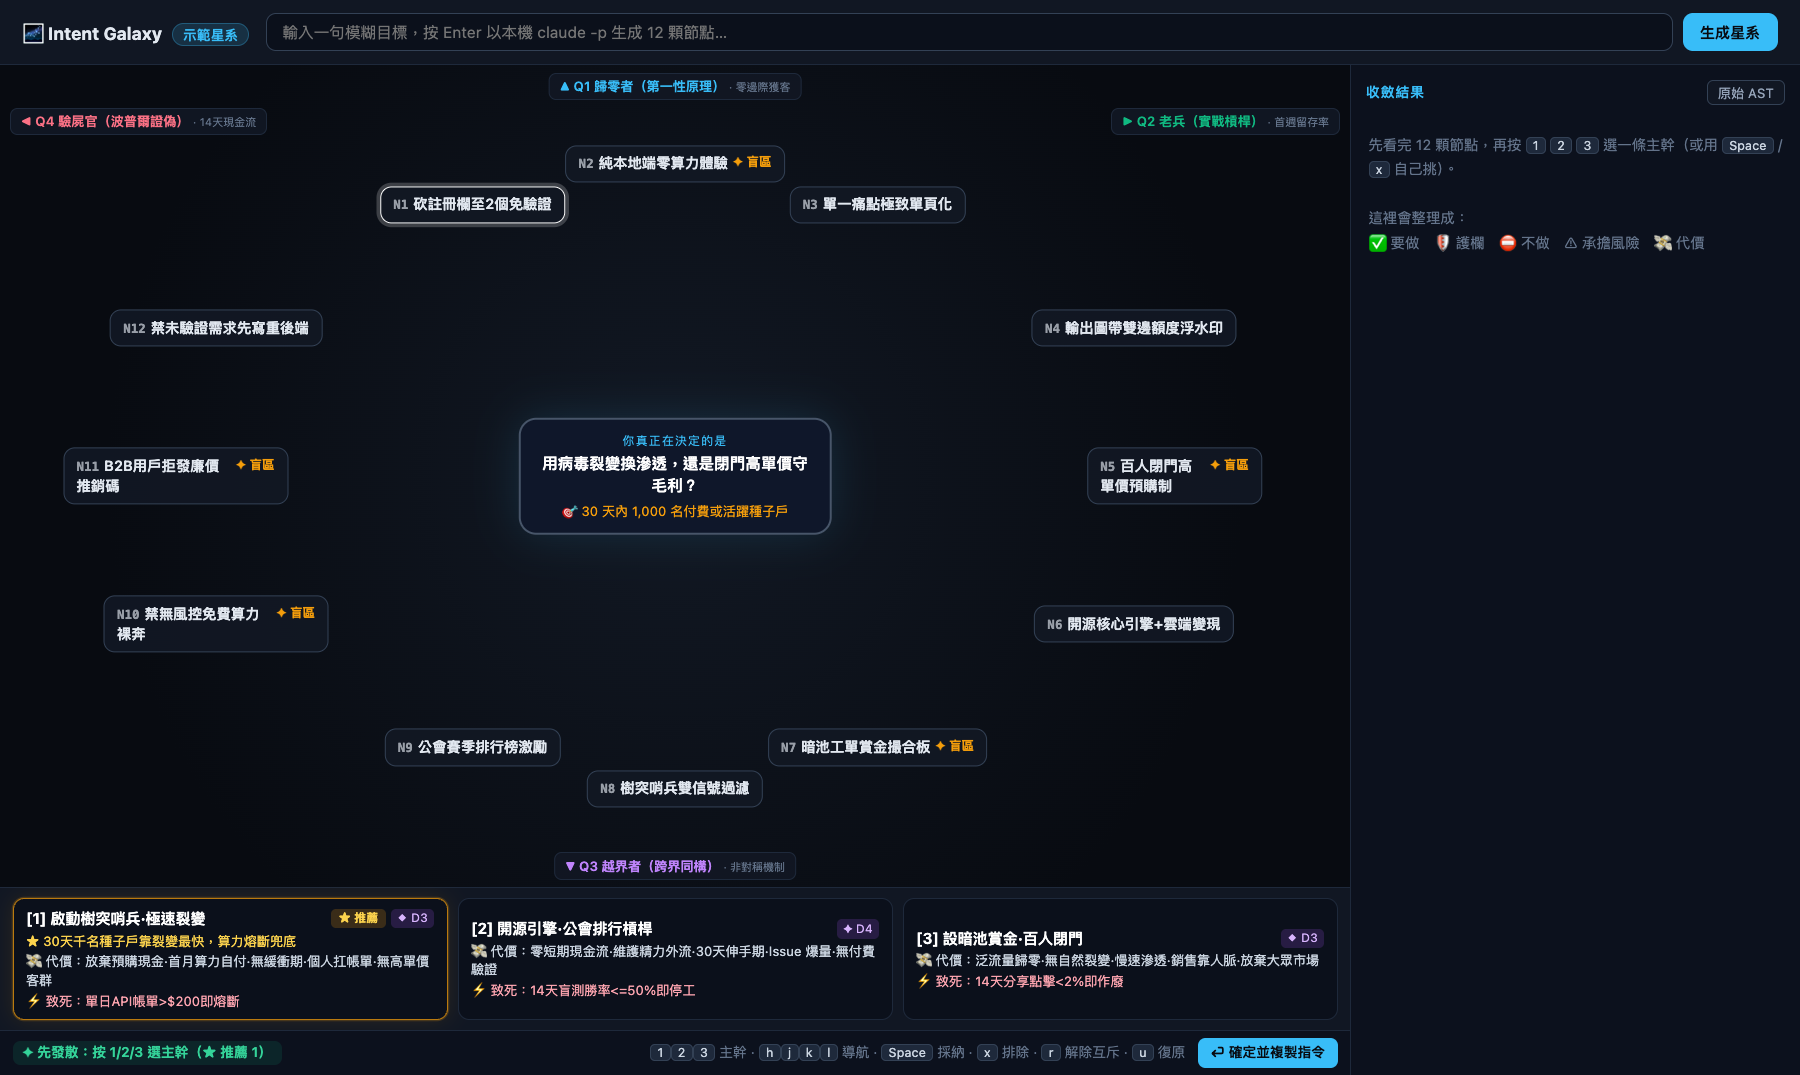
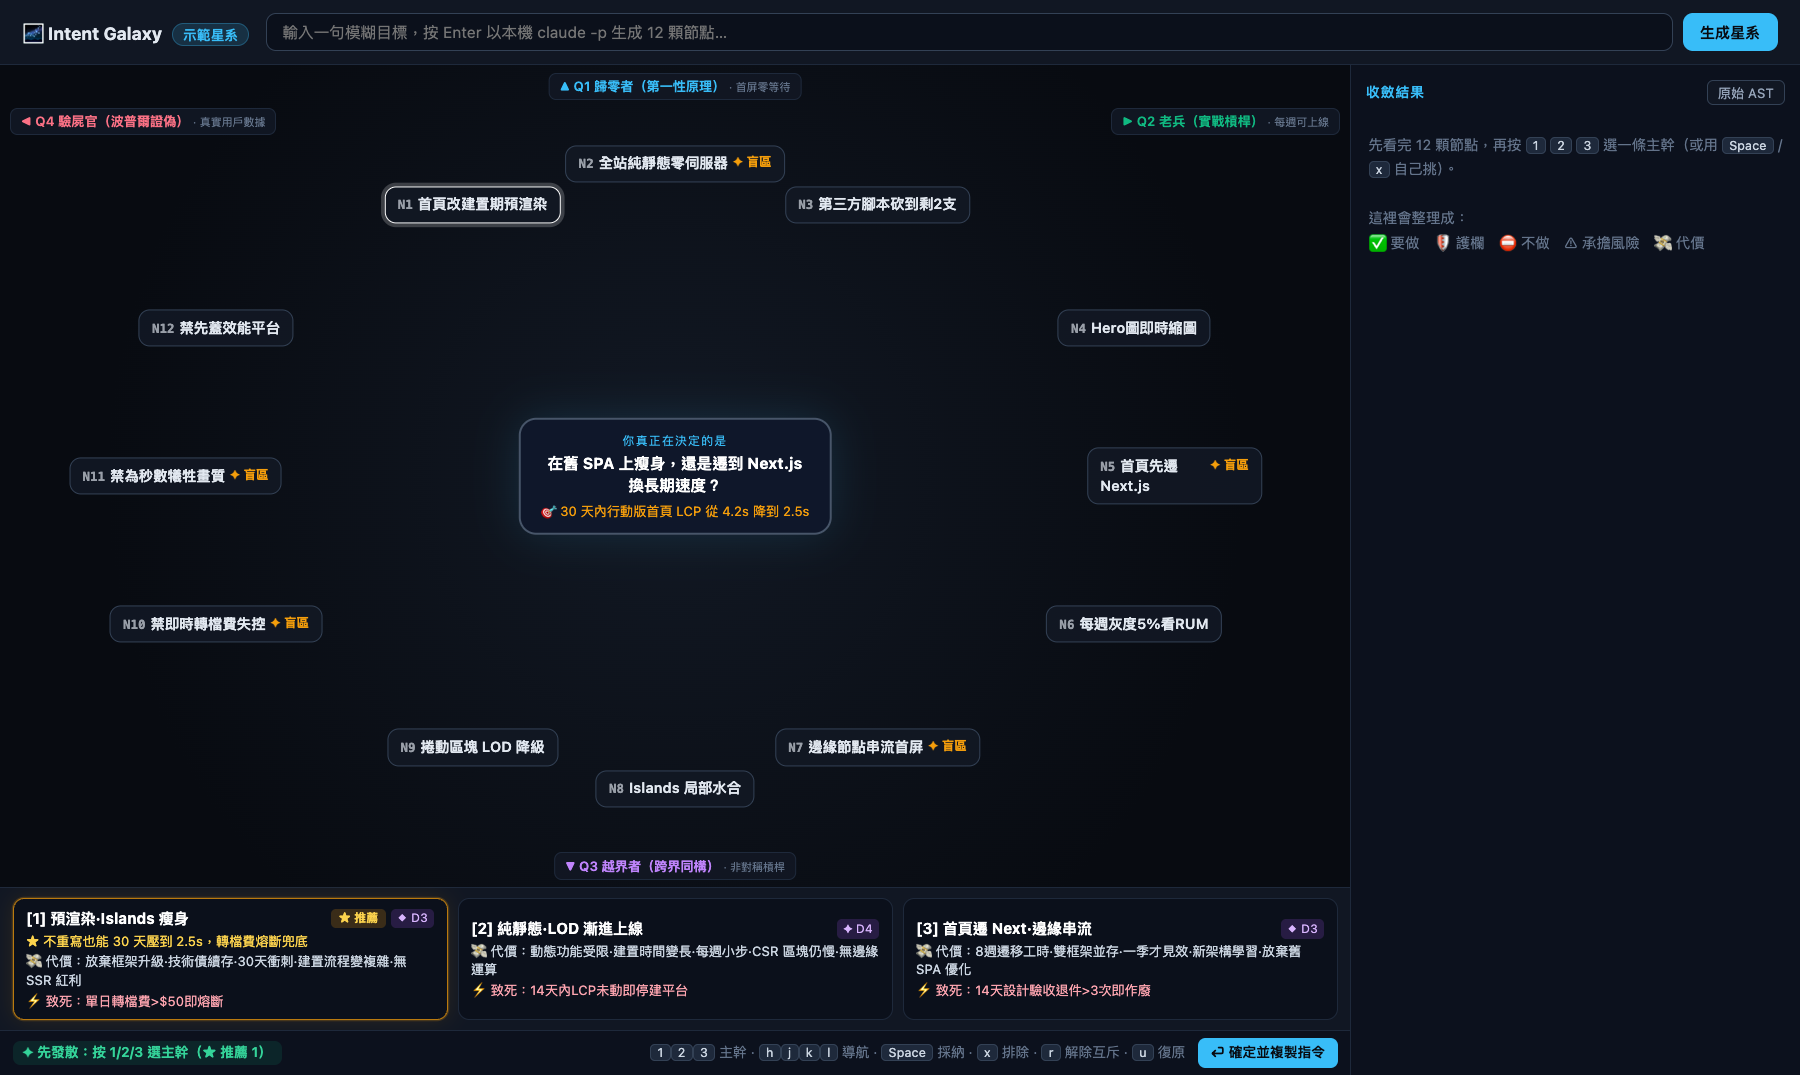
Switch the sample galaxy to a frontend LCP decision (slim the SPA vs migrate to Next.js)

diff --git a/apps/web/sample-galaxy.js b/apps/web/sample-galaxy.js
@@ -1,5 +1,5 @@
 // 內建示範星系（IntentAnalysisResponse v1.0）：CLI 無資料或擴充功能離線時使用。
-const dims = { D1: "獲客門檻", D2: "算力歸屬", D3: "營收模式", D4: "擴散機制" };
+const dims = { D1: "首屏渲染", D2: "運算位置", D3: "遷移幅度", D4: "資源與驗收" };
 const node = (dim, cell, inverse_cell, label, claim, kill, blind, extra = {}) => ({
   dim, cell, inverse_cell, inverse_pos: `反方主張 ${dims[dim]} 走另一極`, claim, kill, blind,
   scores: { i: 1, v: 1, r: 0 }, label, ...extra,
@@ -8,62 +8,62 @@ const node = (dim, cell, inverse_cell, label, claim, kill, blind, extra = {}) =>
 export const SAMPLE_GALAXY = {
   schema_version: "1.0",
   core: {
-    decision: "你真正在決定的是：用病毒裂變換滲透，還是閉門高單價守毛利？",
-    metric: "30 天內 1,000 名付費或活躍種子戶",
+    decision: "你真正在決定的是：在舊 SPA 上瘦身，還是遷到 Next.js 換長期速度？",
+    metric: "30 天內行動版首頁 LCP 從 4.2s 降到 2.5s",
   },
   quadrants: {
-    Q1: { scar: "曾因註冊流程流失七成", sacred: "零邊際獲客" },
-    Q2: { scar: "燒光預算換來假活躍", sacred: "首週留存率" },
-    Q3: { scar: "照抄同業被價格戰輾", sacred: "非對稱機制" },
-    Q4: { scar: "驗過 40 具新創屍體", sacred: "14天現金流" },
+    Q1: { scar: "曾為 2MB bundle 苦撐三年", sacred: "首屏零等待" },
+    Q2: { scar: "重寫半年後專案被砍", sacred: "每週可上線" },
+    Q3: { scar: "照抄大廠架構拖垮小團隊", sacred: "非對稱槓桿" },
+    Q4: { scar: "驗過 30 次失敗重寫", sacred: "真實用戶數據" },
   },
   nodes: {
-    N1: node("D1", 0, 2, "砍註冊欄至2個免驗證", "砍註冊欄位至2個並免除信箱驗證，換取首日80%轉化", "14天假帳號率>15%則錯", null),
-    N2: node("D2", 0, 1, "純本地端零算力體驗", "核心推論改跑瀏覽器WebGPU，伺服器算力成本歸零", "低階機跳出率>40%則錯", "邊緣端算力轉嫁"),
-    N3: node("D1", 1, 0, "單一痛點極致單頁化", "砍掉所有儀表板只留60秒星系圖單頁，禁做多頁SaaS", "次週留存<25%則錯", null),
-    N4: node("D4", 0, 2, "輸出圖帶雙邊額度浮水印", "匯出之架構圖強制附帶推薦連結，點擊雙邊贈50次額度", "14天K因子<0.4則錯", null),
-    N5: node("D3", 2, 0, "百人閉門高單價預購制", "關閉免費註冊，僅開放100席年費創始會員預購", "7天內預購<20席則錯", "社交推銷羞恥感"),
-    N6: node("D3", 1, 2, "開源核心引擎+雲端變現", "將@intent-eng/core開源衝GitHub Star，僅收費MCP雲端同步", "14天Star<500則錯", null),
-    N7: node("D3", 2, 1, "暗池工單賞金撮合板", "[D2金融暗池] 高難度架構問題掛暗池賞金，吸引頂尖架構師解答", "無人掛單超過7天則錯", "雙邊流動性冷啟動",
-      { lateral: { src: "金融: 暗池撮合", dist: 2, drop: "公開掛單簿" } }),
-    N8: node("D2", 1, 0, "樹突哨兵雙信號過濾", "[D3免疫學] 本地正則初篩+模型二次確認才消耗API額度", "誤攔截率>10%則錯", null,
-      { lateral: { src: "免疫學: 樹突細胞雙信號", dist: 3, drop: "單層關鍵字黑名單" } }),
-    N9: node("D4", 2, 0, "公會賽季排行榜激勵", "[D4遊戲公會] 公開展示頂尖意圖模板與Fork次數排行榜", "分享率<5%則錯", null,
-      { lateral: { src: "遊戲: 公會賽季", dist: 4, drop: "私人收藏夾" } }),
-    N10: node("D2", 2, 0, "禁無風控免費算力裸奔", "若開放免費免驗證且無本地過濾，7天內必遭羊毛黨刷爆API破產", "單日API帳單>$200即熔斷", "羊毛黨算力擠兌",
-      { falsifier: { attack: "unit_economics", hits: "A2", wound: "免費額度被批量帳號吃光" } }),
-    N11: node("D4", 1, 0, "B2B用戶拒發廉價推銷碼", "若要求資深工程師發送俗氣折價碼，因社交羞恥感轉發率必趨近0", "14天分享點擊<2%即作廢", "B2B社交貨幣門檻",
-      { falsifier: { attack: "dark_incentive", hits: "A3", wound: "推薦獎勵與職業形象衝突" } }),
-    N12: node("D3", 0, 1, "禁未驗證需求先寫重後端", "若在20人盲測勝率未過半前先建多租戶帳務後端，沉沒成本必拖死專案", "14天盲測勝率<=50%即停工", null,
-      { falsifier: { attack: "sunk_cost", hits: "A1", wound: "後端投入綁架產品方向" } }),
+    N1: node("D1", 0, 2, "首頁改建置期預渲染", "首頁改用建置期預渲染輸出靜態 HTML，首屏不必等 JS 下載執行", "14天行動版LCP未破2.5s則錯", null),
+    N2: node("D2", 0, 1, "全站純靜態零伺服器", "只部署 CDN 靜態檔，圖片在 CI 建置期預轉 AVIF，執行期零伺服器運算", "建置時間>15分鐘則錯", "動態內容只能退回 CSR"),
+    N3: node("D1", 1, 0, "第三方腳本砍到剩2支", "移除 A/B 測試、客服浮窗等第三方腳本，只留錯誤監控與 GA", "14天轉換率掉>5%則錯", null),
+    N4: node("D4", 0, 2, "Hero圖即時縮圖", "Hero 圖改 AVIF 並由 CDN 依裝置寬度即時縮圖，LCP 圖片壓到 80KB 內", "14天LCP元素>80KB則錯", null),
+    N5: node("D3", 2, 0, "首頁先遷 Next.js", "只把首頁遷到 Next.js App Router 做 SSR，其餘頁面留在舊 SPA", "8週內首頁未上線則錯", "雙框架並存維運"),
+    N6: node("D3", 1, 2, "每週灰度5%看RUM", "每次改動先灰度 5% 流量一週，用 RUM 的 p75 LCP 決定是否全量", "灰度期INP惡化>20%則錯", null),
+    N7: node("D3", 2, 1, "邊緣節點串流首屏", "[D2物流越庫] 邊緣節點先串流首屏 HTML，其餘區塊像越庫貨物到站即轉運", "邊緣TTFB>600ms則錯", "邊緣函式冷啟動",
+      { lateral: { src: "物流: 越庫作業", dist: 2, drop: "整頁渲染完才送出" } }),
+    N8: node("D2", 1, 0, "Islands 局部水合", "[D3中央廚房] 頁面切成 Islands，只有購物車、搜尋等互動區塊才 hydrate", "首頁hydrate JS>100KB則錯", null,
+      { lateral: { src: "餐飲: 中央廚房備料", dist: 3, drop: "整頁 hydrate" } }),
+    N9: node("D4", 2, 0, "捲動區塊 LOD 降級", "[D4遊戲LOD] 視窗外區塊先渲染低解析骨架，捲入視窗才換完整元件", "捲動掉幀>10%則錯", null,
+      { lateral: { src: "遊戲: LOD 細節層級", dist: 4, drop: "一次全量渲染" } }),
+    N10: node("D2", 2, 0, "禁即時轉檔費失控", "若全站圖片即時轉檔且不設快取，7天內 CDN 轉檔帳單必暴增", "單日轉檔費>$50即熔斷", "轉檔費用暗增",
+      { falsifier: { attack: "unit_economics", hits: "A2", wound: "效能收益被 CDN 帳單吃掉" } }),
+    N11: node("D4", 1, 0, "禁為秒數犧牲畫質", "若 KPI 只綁 LCP 秒數，團隊必把 Hero 圖壓到糊，設計與品牌方必反彈", "14天設計驗收退件>3次即作廢", "設計方否決權",
+      { falsifier: { attack: "dark_incentive", hits: "A3", wound: "指標壓過真實體驗" } }),
+    N12: node("D3", 0, 1, "禁先蓋效能平台", "若先花 6 週自建效能監控平台才動手改，沉沒成本必拖過 30 天期限", "14天內LCP未動即停建平台", null,
+      { falsifier: { attack: "sunk_cost", hits: "A1", wound: "工具投入綁架目標" } }),
   },
   edges: [
-    { type: "excludes", from: "N4", to: "N5", why: "免費病毒裂變與閉門預購互斥" },
-    { type: "excludes", from: "N1", to: "N5", why: "免驗證極速註冊與閉門審核互斥" },
-    { type: "excludes", from: "N4", to: "N11", why: "直接發折價浮水印違反B2B社交羞恥護欄" },
-    { type: "excludes", from: "N2", to: "N7", why: "純本地零伺服器與暗池撮合需中心化服務互斥" },
-    { type: "excludes", from: "N2", to: "N10", why: "零算力無 API 帳單可熔斷，兩者擇一" },
-    { type: "excludes", from: "N9", to: "N11", why: "公開排行榜曝光與 B2B 低調形象互斥" },
-    { type: "requires", from: "N1", to: "N8", why: "免驗證註冊必須搭配樹突哨兵過濾防刷" },
-    { type: "requires", from: "N4", to: "N10", why: "病毒裂變必須啟用算力防刷爆護欄" },
+    { type: "excludes", from: "N4", to: "N5", why: "舊 SPA 自建圖片管線與 Next.js 內建 next/image 兩套擇一" },
+    { type: "excludes", from: "N1", to: "N5", why: "同一個首頁不會同時做 SPA 預渲染與 Next.js SSR" },
+    { type: "excludes", from: "N4", to: "N11", why: "壓到 80KB 的 Hero 圖必然觸發畫質護欄" },
+    { type: "excludes", from: "N2", to: "N7", why: "純靜態零伺服器與邊緣串流需要執行期運算互斥" },
+    { type: "excludes", from: "N2", to: "N10", why: "建置期預轉圖片沒有即時轉檔費可熔斷，兩者擇一" },
+    { type: "excludes", from: "N9", to: "N11", why: "低解析骨架與畫質護欄互斥" },
+    { type: "requires", from: "N1", to: "N8", why: "預渲染頁面若整頁 hydrate 會抵銷效益，必須搭配 Islands" },
+    { type: "requires", from: "N4", to: "N10", why: "即時縮圖必須設轉檔費熔斷" },
   ],
   archetypes: {
     alpha: {
       include: ["N1", "N3", "N4", "N8", "N10"], exclude: ["N5"],
-      sacrifice: { nodes: ["N5"], p: "放棄預購現金", v: "首月算力自付", t: "無緩衝期", l: "個人扛帳單", x: "無高單價客群" },
-      fatal: "N10", thesis: "用免疫雙信號擋羊毛，放手病毒裂變", title: "啟動樹突哨兵·極速裂變",
+      sacrifice: { nodes: ["N5"], p: "放棄框架升級", v: "技術債續存", t: "30天衝刺", l: "建置流程變複雜", x: "無 SSR 紅利" },
+      fatal: "N10", thesis: "首頁預渲染加局部水合，不重寫壓 LCP", title: "預渲染·Islands 瘦身",
     },
     beta: {
       include: ["N2", "N3", "N6", "N9", "N12"], exclude: ["N5"],
-      sacrifice: { nodes: ["N5"], p: "零短期現金流", v: "維護精力外流", t: "30天伸手期", l: "Issue 爆量", x: "無付費驗證" },
-      fatal: "N12", thesis: "開源引擎換 Star，用賽季榜驅動擴散", title: "開源引擎·公會排行槓桿",
+      sacrifice: { nodes: ["N5"], p: "動態功能受限", v: "建置時間變長", t: "每週小步", l: "CSR 區塊仍慢", x: "無邊緣運算" },
+      fatal: "N12", thesis: "零伺服器純靜態，捲動區塊 LOD 延後", title: "純靜態·LOD 漸進上線",
     },
     gamma: {
       include: ["N3", "N5", "N7", "N8", "N11"], exclude: ["N1", "N4"],
-      sacrifice: { nodes: ["N1", "N4"], p: "泛流量歸零", v: "無自然裂變", t: "慢速滲透", l: "銷售靠人脈", x: "放棄大眾市場" },
-      fatal: "N11", thesis: "暗池賞金鎖住頂尖用戶，百席守毛利", title: "設暗池賞金·百人閉門",
+      sacrifice: { nodes: ["N1", "N4"], p: "8週遷移工時", v: "雙框架並存", t: "一季才見效", l: "新架構學習", x: "放棄舊 SPA 優化" },
+      fatal: "N11", thesis: "首頁先遷 Next 邊緣串流，守住畫質", title: "首頁遷 Next·邊緣串流",
     },
   },
-  recommend: { key: "alpha", why: "30天千名種子戶靠裂變最快，算力熔斷兜底" },
-  withheld_kill: { attack: "single_point_failure", hits: "A4", claim: "核心依賴單一模型供應商", kill: "供應商漲價30%即作廢", label: "斷供單點" },
+  recommend: { key: "alpha", why: "不重寫也能 30 天壓到 2.5s，轉檔費熔斷兜底" },
+  withheld_kill: { attack: "single_point_failure", hits: "A4", claim: "首屏資源依賴單一 CDN 供應商", kill: "CDN 區域故障1小時即作廢", label: "CDN 單點" },
 };

diff --git a/libs/core/src/verify.ts b/libs/core/src/verify.ts
@@ -92,7 +92,7 @@ await assert.rejects(buildIntentLock({ analysis: a, solution: clash, baseKey: "a
 assert.equal(requiresNumericKill(["dead", "unobservable"]), false);
 assert.equal(requiresNumericKill(["unobservable", "unobservable"]), true);
 assert.equal(requiresNumericKill(["unobservable", "unobservable", "alive"]), false);
-const vague = structuredClone(a); vague.nodes.N10.kill = "羊毛黨刷爆即熔斷";
+const vague = structuredClone(a); vague.nodes.N10.kill = "轉檔費暴增即熔斷";
 const twice = { analysis: vague, solution: solveGalaxy(vague, "alpha", new Map()), baseKey: "alpha" as const, recentVerdicts: ["unobservable", "unobservable"] };
 await assert.rejects(buildIntentLock(twice), LockError);
 assert.ok((await buildIntentLock({ ...twice, analysis: a, solution: solveGalaxy(a, "alpha", new Map()) })).specHash);
